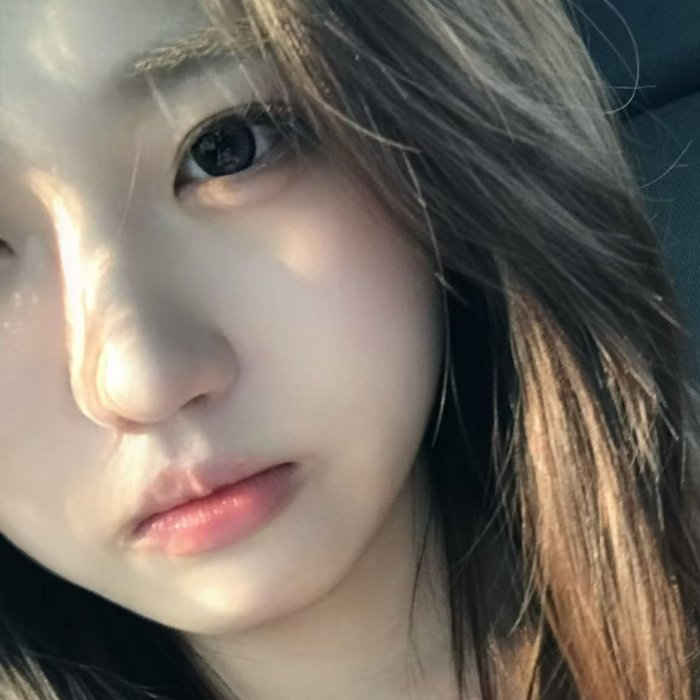
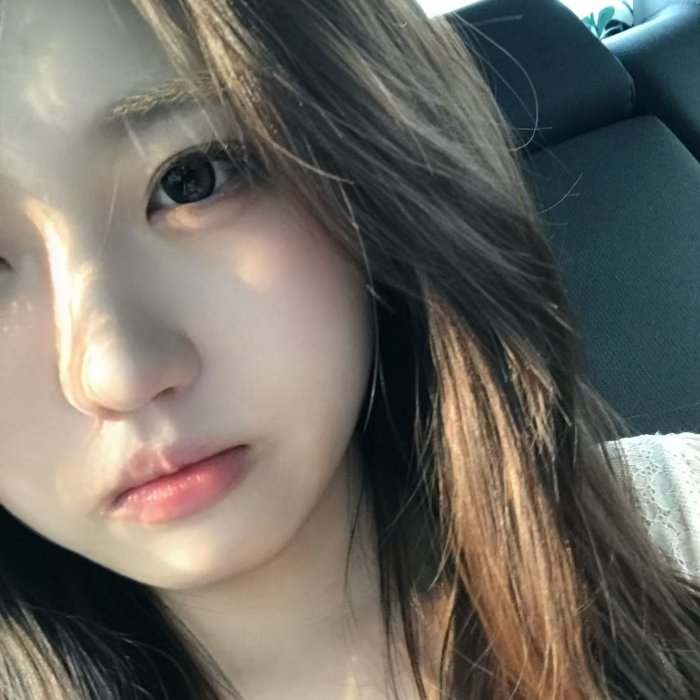
wheel: 补上第六张照片，并修掉转完之后的横向滚动
- 第六格（520 红包）铺上生日那顿饭的照片，六格全是她了
- 车里自拍重裁得宽一些，之前那版景别比其余五张近太多，像另一个尺度
- 修 bug：转过之后窄屏会横向滚动。里面的 SVG 是正方形，旋转后外接框
  最多胀到 √2 倍，不影响布局但会撑大可滚动区域。给底座加 overflow: hidden，
  SVG 本身就是个圆，裁掉的部分看不见
- 顺带删掉 .slot 上那圈负 margin：它是给早先 hover 虚线框留的边距，
  框删了之后它只剩溢出，窄屏上把文案顶出屏幕 10px

320 / 360 / 390 / 430 / 768 / 1280 / 1600 七个宽度转完都无横向滚动。

Claude-Session: https://claude.ai/code/session_01RCsZvkbjZukkcGSxKmErLx

diff --git a/wheel/styles.css b/wheel/styles.css
@@ -69,13 +69,9 @@ body {
   max-width: 46ch;
 }
 
-/* 文案位。之前 hover 会显示一圈虚线方便定位，现在真文案已经写进去了，
-   那个提示对收到链接的人来说只会像 bug，所以撤掉了。 */
-.slot {
-  border-radius: 6px;
-  margin: -6px -10px;
-  padding: 6px 10px;
-}
+/* .slot 现在只是个标记，用来在 HTML 里认出哪几块是文案位，不带样式。
+   （原本它有一圈负 margin，是给 hover 虚线框留的边距；虚线框删掉之后
+   那圈负 margin 就成了纯粹的溢出源 —— 窄屏上会把文字顶出屏幕 10px。） */
 
 .eyebrow {
   font-size: 12px;
@@ -137,6 +133,10 @@ body {
   inset: 0;
   border-radius: 50%;
   padding: 10px;
+  /* 必须裁掉：里面那个 SVG 是正方形，转起来之后它的外接框最多会胀到 √2 倍，
+     虽然不影响布局，但会把可滚动区域撑大 —— 手机上转完一次页面就能横着滑。
+     SVG 本身已经是个圆，裁掉的部分本来就看不见。 */
+  overflow: hidden;
   background: linear-gradient(150deg, rgba(240, 194, 106, 0.85), rgba(240, 194, 106, 0.22) 45%, rgba(240, 194, 106, 0.7));
   box-shadow:
     0 28px 70px rgba(0, 0, 0, 0.55),

diff --git a/wheel/wheel.js b/wheel/wheel.js
@@ -57,7 +57,7 @@ const SEGMENTS = [
     // 这张车里自拍的脸偏左，所以放在转盘左半边的格子上 ——
     // 照片和礼物的对应关系本来就不给人看，哪张放哪格可以纯按取景挑
     face:  'img/her/2.jpg',    // 车里自拍
-    focus: [0.40, 0.50],
+    focus: [0.30, 0.50],
     copy:  '联系我领取',
     color: '#7E9BB8',          // 信纸的雾蓝
     photo: null,
@@ -70,8 +70,9 @@ const SEGMENTS = [
   {
     brand: '',
     name:  '520 红包',
-    color: '#CE3A32',          // 第六张照片还没来，先留正红
-    face:  null,
+    color: '#CE3A32',
+    face:  'img/her/6.jpg',    // 生日那顿饭
+    focus: [0.50, 0.50],
     photo: null,
     glyph: '福',
   },
